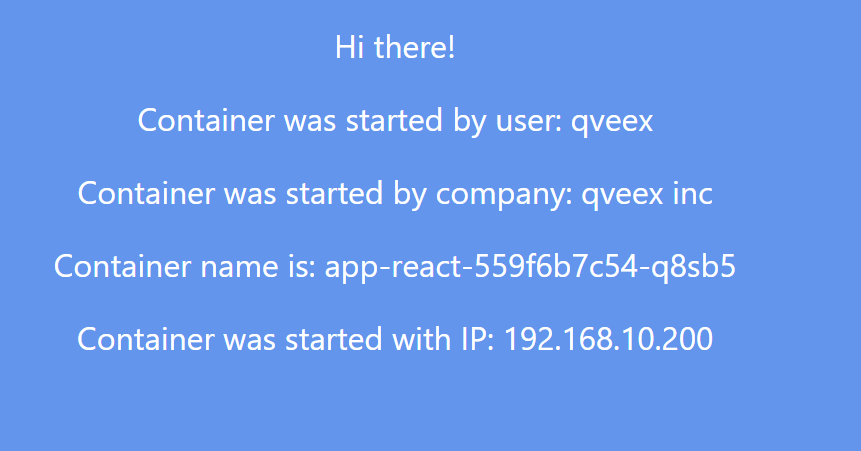
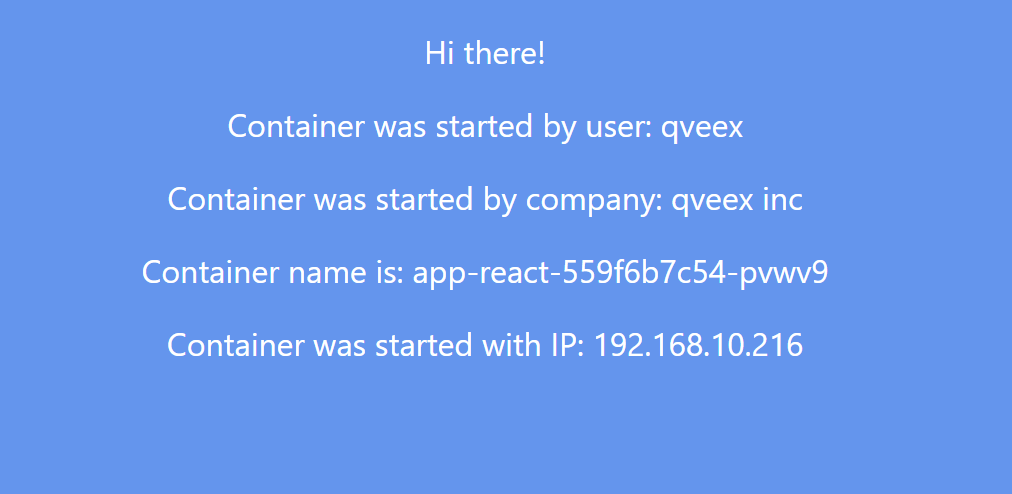
lab4 fixes

diff --git a/lab4/README.md b/lab4/README.md
@@ -123,7 +123,7 @@ spec:
 apiVersion: v1
 kind: Service
 metadata:
-  name: app-service
+  name: balancer-service
 spec:
   type: LoadBalancer
   ports:
@@ -142,37 +142,40 @@ spec:
     $ kubectl get pods -o wide
 ```
 NAME                         READY   STATUS    RESTARTS        AGE   IP               NODE            NOMINATED NODE   READINESS GATES
-app-react-559f6b7c54-njp28   1/1     Running   0               6s    192.168.20.128   multinode-m02   <none>           <none>
-app-react-559f6b7c54-q8sb5   1/1     Running   1 (3m50s ago)   11m   192.168.10.200   multinode       <none>           <none>
+app-react-559f6b7c54-g9rbr   1/1     Running   0               20s   192.168.20.128   multinode-m02   <none>           <none>
+app-react-559f6b7c54-pvwv9   1/1     Running   3 (3m17s ago)   15h   192.168.10.216   multinode       <none>           <none>
 ```
 
 ## Включаем туннелирование
-    minikube service app-service
+    minikube service balancer-service -p multinode
 
-## Открываем сайт
+## Открываем сайт первый раз
 ![1](front1.png)
 
+## Открываем сайт второй раз
+![2](front2.png)
+
 ## Container и Container IP
-Они могут меняться, так как у нас есть два контейнера и `LoadBalancer` перенаправляет нас на один из них
+Они меняются, так как у нас есть два контейнера и `LoadBalancer` перенаправляет нас на один из них
 
 ## Узнаем имя соседнего пода
-    $ kubectl exec app-react-559f6b7c54-njp28 -- nslookup 192.168.20.128
+    $ kubectl exec app-react-559f6b7c54-pvwv9 -- nslookup 192.168.20.128
 ```
 Server:         10.96.0.10
 Address:        10.96.0.10:53
 
-128.20.168.192.in-addr.arpa     name = 192-168-20-128.app-service.default.svc.cluster.local
+128.20.168.192.in-addr.arpa     name = 192-168-20-128.balancer-service.default.svc.cluster.local
 ```
 
 ## Ping соседа
-    $ kubectl exec app-react-559f6b7c54-njp28 -- ping 192-168-20-128.app-service.default.svc.cluster.local
+    $ kubectl exec app-react-559f6b7c54-pvwv9 -- ping 192-168-20-128.balancer-service.default.svc.cluster.local
 ```
-PING 192-168-20-128.app-service.default.svc.cluster.local (192.168.20.128): 56 data bytes
-64 bytes from 192.168.20.128: seq=0 ttl=64 time=0.043 ms
-64 bytes from 192.168.20.128: seq=1 ttl=64 time=0.072 ms
-64 bytes from 192.168.20.128: seq=2 ttl=64 time=0.060 ms
-64 bytes from 192.168.20.128: seq=3 ttl=64 time=0.061 ms
+PING 192-168-20-128.balancer-service.default.svc.cluster.local (192.168.20.128): 56 data bytes
+64 bytes from 192.168.20.128: seq=0 ttl=62 time=0.193 ms
+64 bytes from 192.168.20.128: seq=1 ttl=62 time=0.139 ms
+64 bytes from 192.168.20.128: seq=2 ttl=62 time=0.320 ms
+64 bytes from 192.168.20.128: seq=3 ttl=62 time=0.118 ms
 ```
 
 ## Схема организации контейнеров и сервисов
-![2](lab4.png)
+![3](lab4.png)

diff --git a/lab4/lab4_report.md b/lab4/lab4_report.md
@@ -123,7 +123,7 @@ spec:
 apiVersion: v1
 kind: Service
 metadata:
-  name: app-service
+  name: balancer-service
 spec:
   type: LoadBalancer
   ports:
@@ -142,37 +142,40 @@ spec:
     $ kubectl get pods -o wide
 ```
 NAME                         READY   STATUS    RESTARTS        AGE   IP               NODE            NOMINATED NODE   READINESS GATES
-app-react-559f6b7c54-njp28   1/1     Running   0               6s    192.168.20.128   multinode-m02   <none>           <none>
-app-react-559f6b7c54-q8sb5   1/1     Running   1 (3m50s ago)   11m   192.168.10.200   multinode       <none>           <none>
+app-react-559f6b7c54-g9rbr   1/1     Running   0               20s   192.168.20.128   multinode-m02   <none>           <none>
+app-react-559f6b7c54-pvwv9   1/1     Running   3 (3m17s ago)   15h   192.168.10.216   multinode       <none>           <none>
 ```
 
 ## Включаем туннелирование
-    minikube service app-service
+    minikube service balancer-service -p multinode
 
-## Открываем сайт
+## Открываем сайт первый раз
 ![1](front1.png)
 
+## Открываем сайт второй раз
+![2](front2.png)
+
 ## Container и Container IP
-Они могут меняться, так как у нас есть два контейнера и `LoadBalancer` перенаправляет нас на один из них
+Они меняются, так как у нас есть два контейнера и `LoadBalancer` перенаправляет нас на один из них
 
 ## Узнаем имя соседнего пода
-    $ kubectl exec app-react-559f6b7c54-njp28 -- nslookup 192.168.20.128
+    $ kubectl exec app-react-559f6b7c54-pvwv9 -- nslookup 192.168.20.128
 ```
 Server:         10.96.0.10
 Address:        10.96.0.10:53
 
-128.20.168.192.in-addr.arpa     name = 192-168-20-128.app-service.default.svc.cluster.local
+128.20.168.192.in-addr.arpa     name = 192-168-20-128.balancer-service.default.svc.cluster.local
 ```
 
 ## Ping соседа
-    $ kubectl exec app-react-559f6b7c54-njp28 -- ping 192-168-20-128.app-service.default.svc.cluster.local
+    $ kubectl exec app-react-559f6b7c54-pvwv9 -- ping 192-168-20-128.balancer-service.default.svc.cluster.local
 ```
-PING 192-168-20-128.app-service.default.svc.cluster.local (192.168.20.128): 56 data bytes
-64 bytes from 192.168.20.128: seq=0 ttl=64 time=0.043 ms
-64 bytes from 192.168.20.128: seq=1 ttl=64 time=0.072 ms
-64 bytes from 192.168.20.128: seq=2 ttl=64 time=0.060 ms
-64 bytes from 192.168.20.128: seq=3 ttl=64 time=0.061 ms
+PING 192-168-20-128.balancer-service.default.svc.cluster.local (192.168.20.128): 56 data bytes
+64 bytes from 192.168.20.128: seq=0 ttl=62 time=0.193 ms
+64 bytes from 192.168.20.128: seq=1 ttl=62 time=0.139 ms
+64 bytes from 192.168.20.128: seq=2 ttl=62 time=0.320 ms
+64 bytes from 192.168.20.128: seq=3 ttl=62 time=0.118 ms
 ```
 
 ## Схема организации контейнеров и сервисов
-![2](lab4.png)
+![3](lab4.png)
